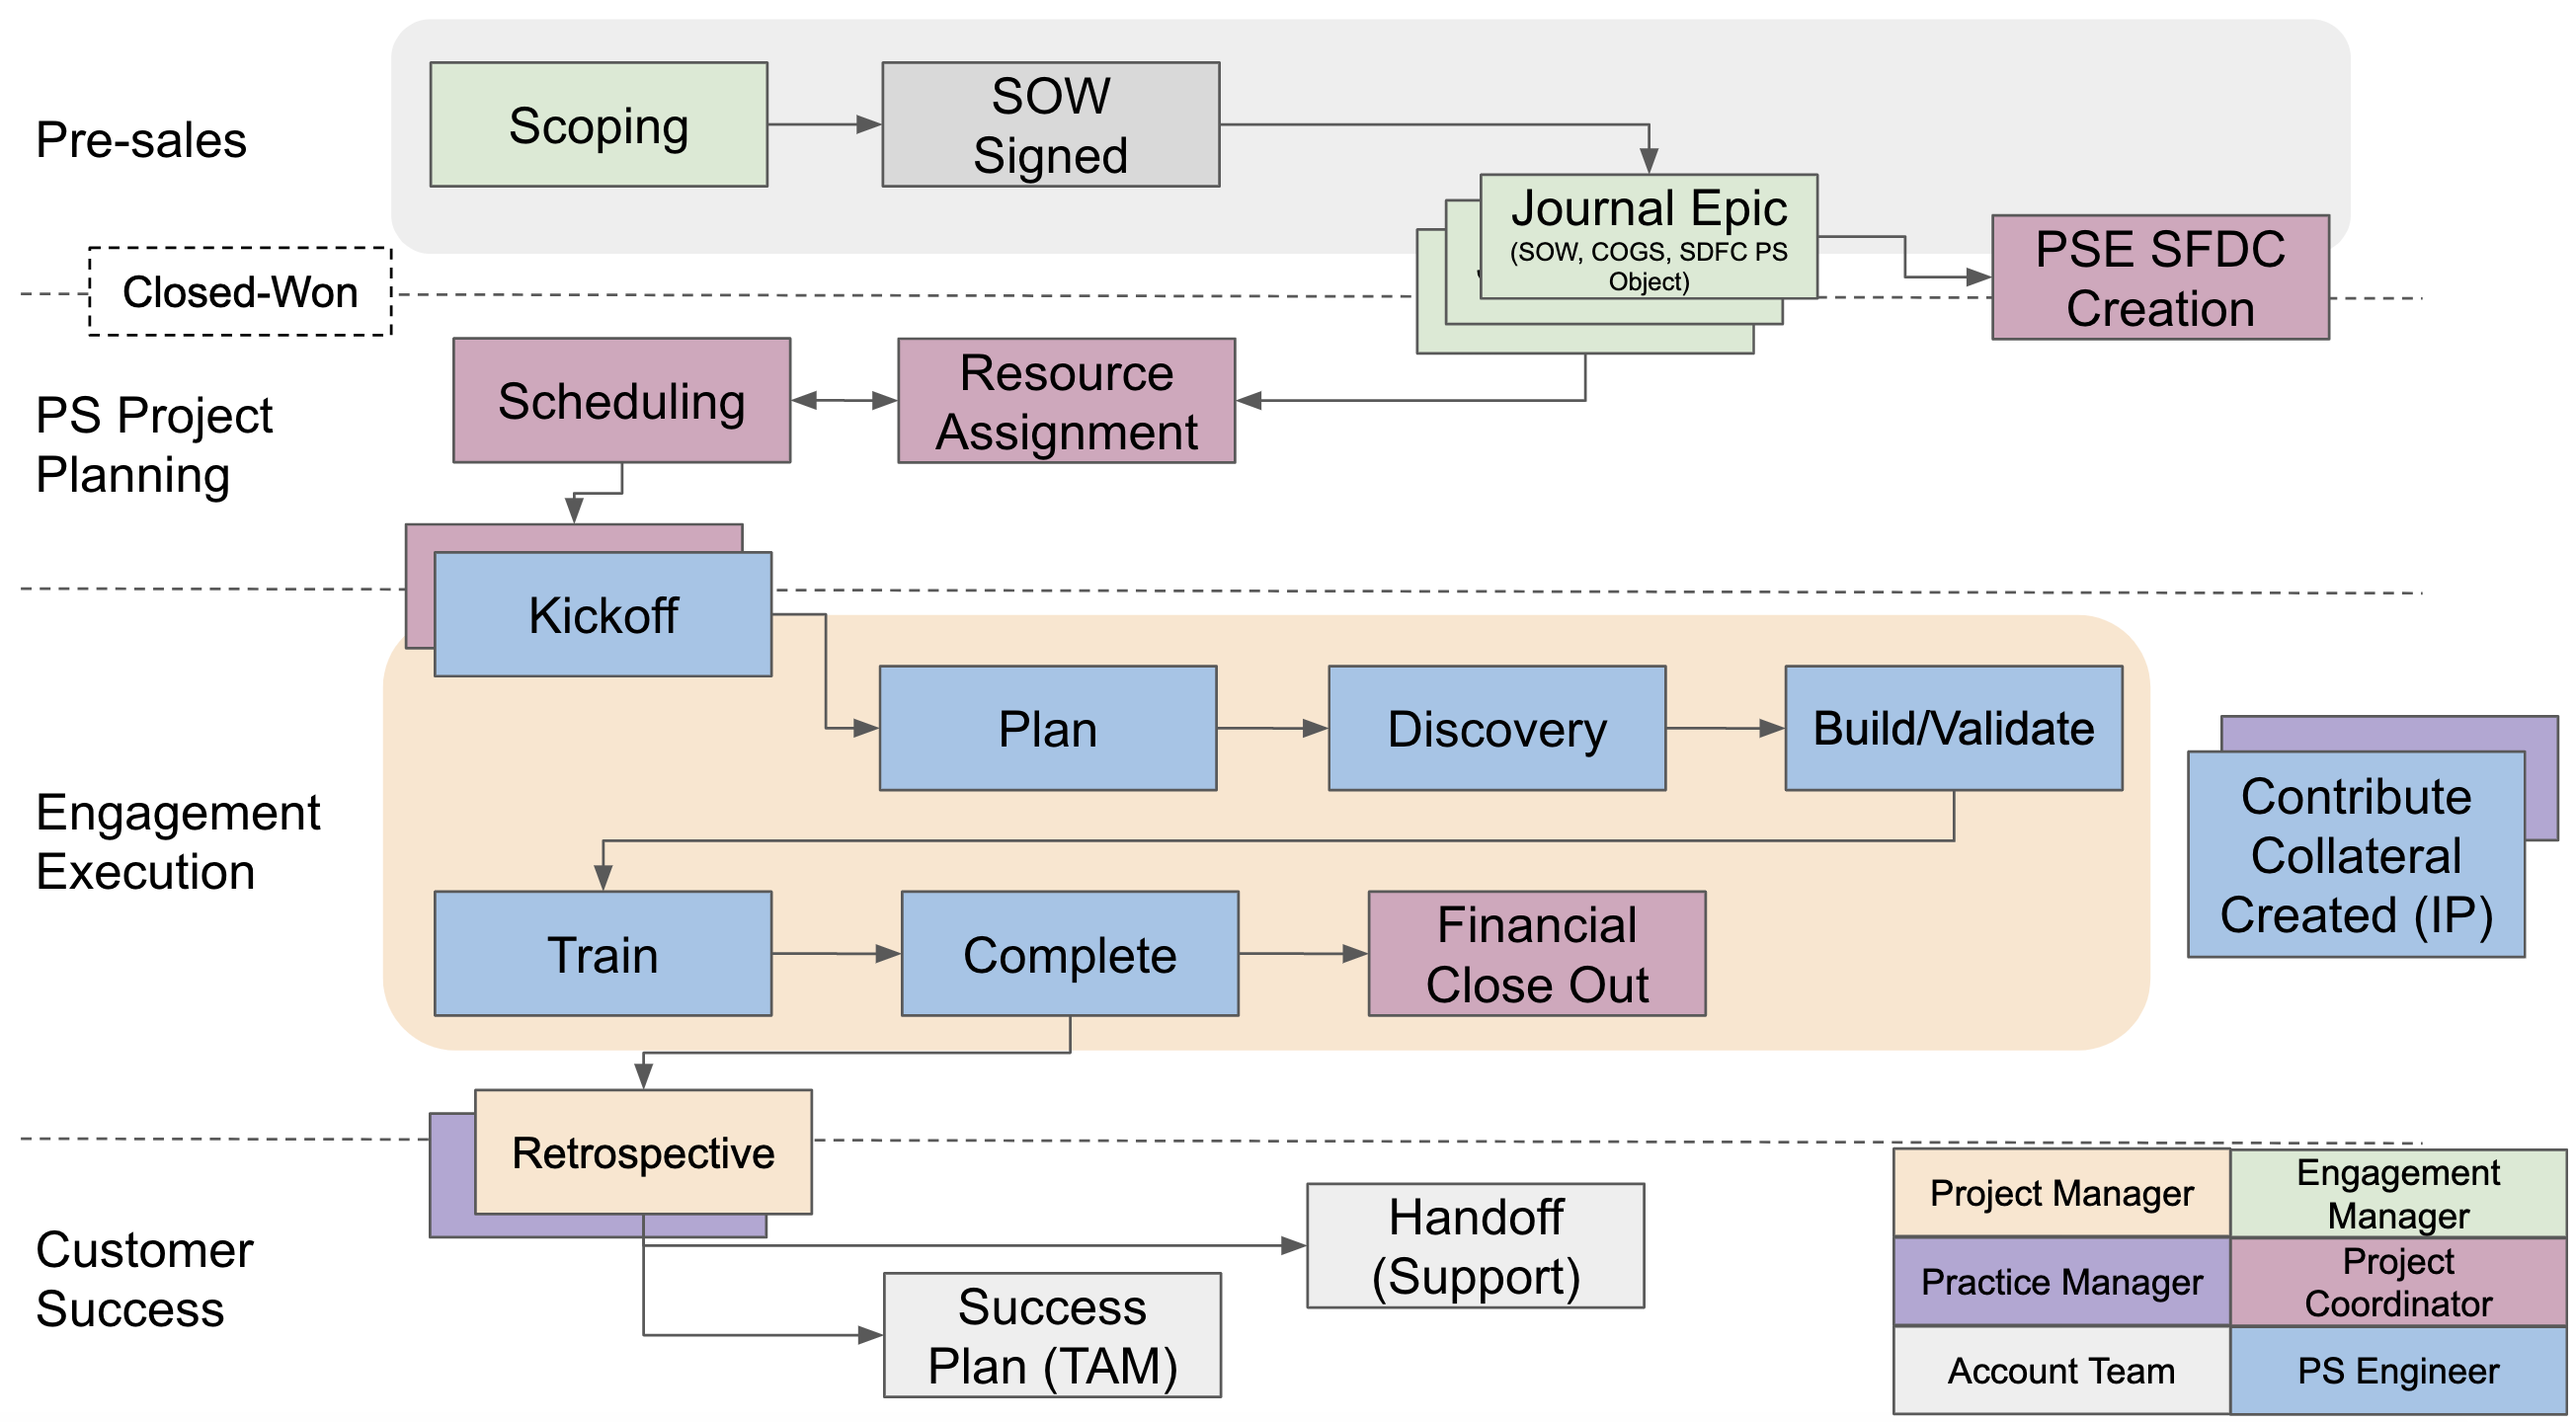
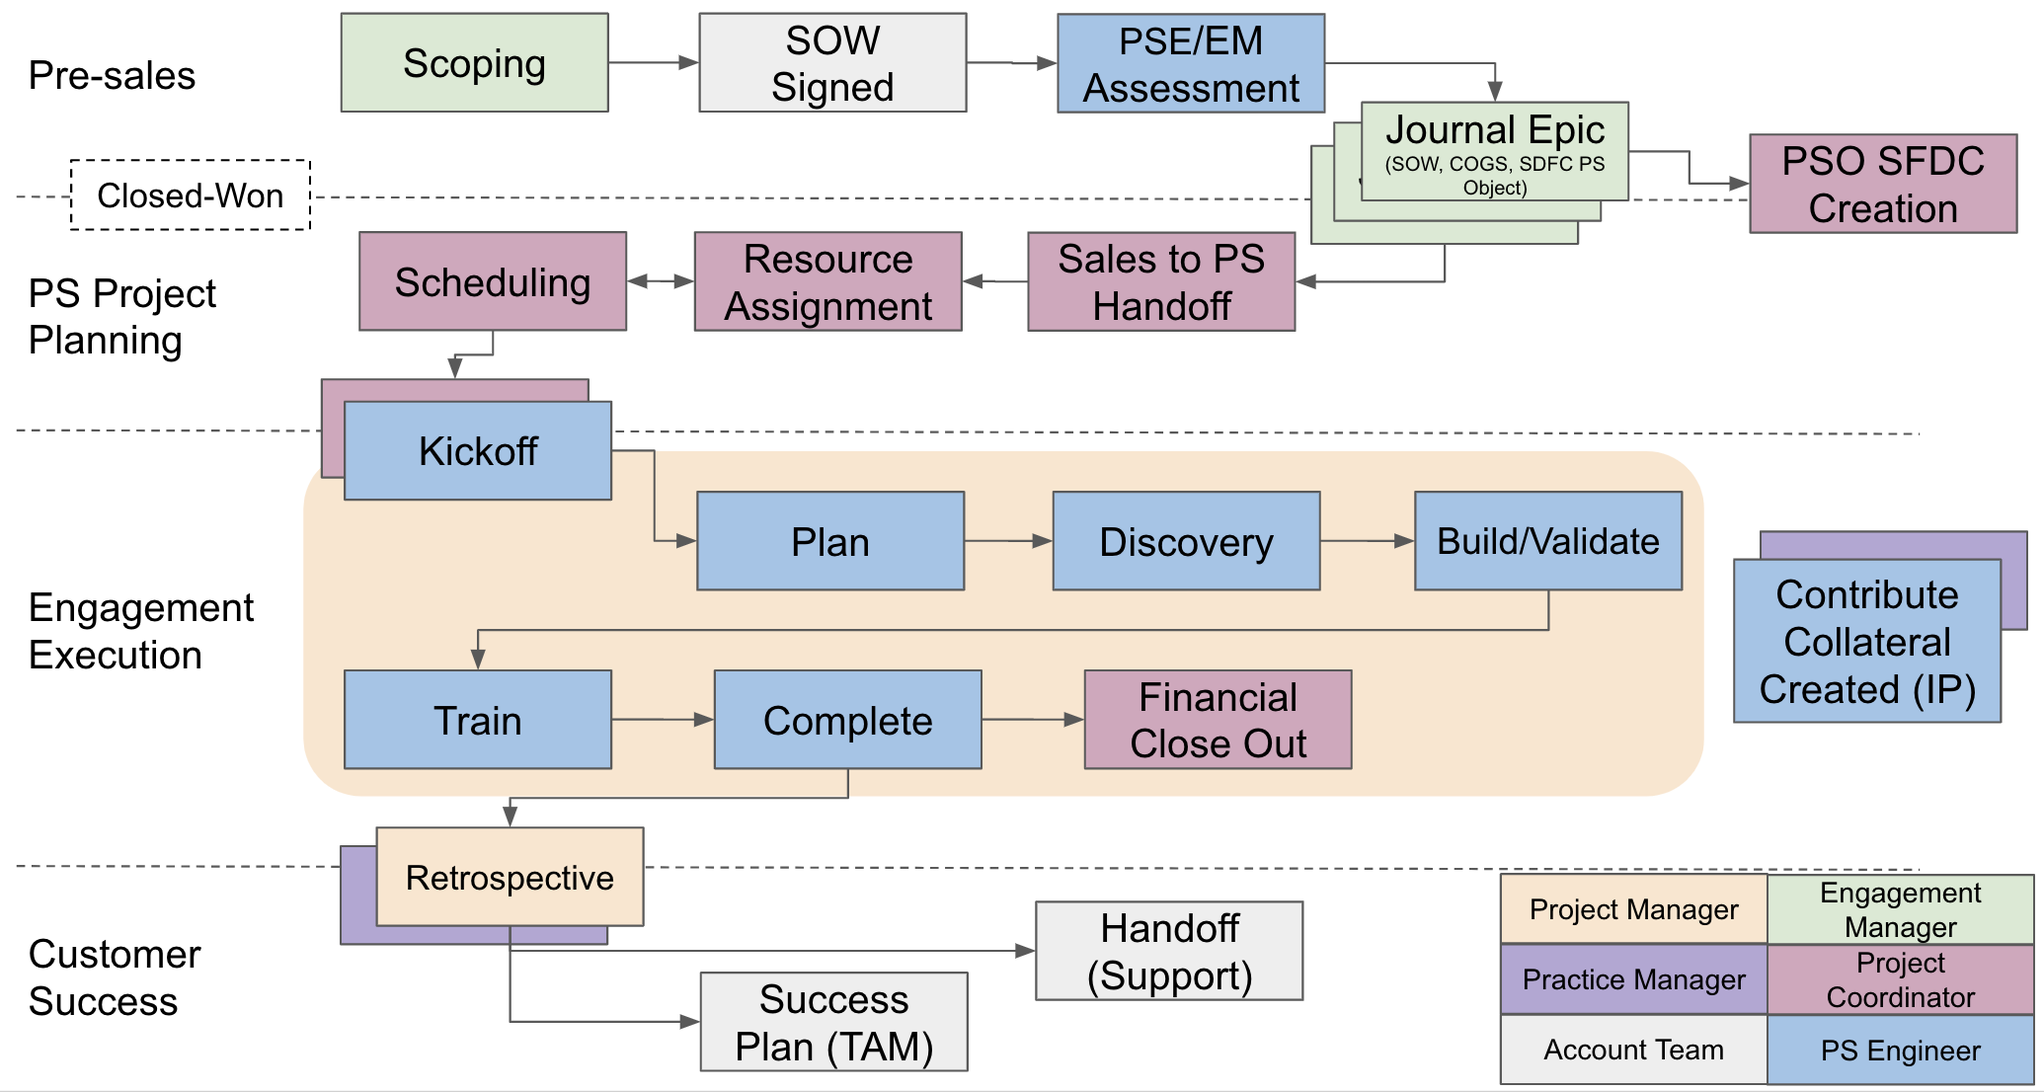
updates ps post sales sections

diff --git a/customer-success/professional-services-engineering/processes/post-sales-methodology/index.html.md b/customer-success/professional-services-engineering/processes/post-sales-methodology/index.html.md
@@ -10,7 +10,7 @@ description: "Describes the workflow governing delivery of GitLab professional s
 - TOC
 {:toc .hidden-md .hidden-lg}
 
-### Overview
+## Overview
 
 The purpose of this page is to describe the workflow governing delivery of professional service projects. We will start by outlining the general workflow that is common across all service delivery categories. Then we will describe the differences for engagements that do not fit the general workflow shown below.
 
@@ -21,9 +21,25 @@ The purpose of this page is to describe the workflow governing delivery of profe
 <!---Update this below
 GitLab professional services employs three different workflows that control projects for the following categories:  standard professional services, education, and dedicated engineers.  Each of these categories have unique attributes that warrant a different approach.--->
 
-### Planning and Delivering Standard Services
+## 1. Pre-sales
+_Note: for presales scoping and SOW signature, see the [pre-sales methodology page](/handbook/customer-success/professional-services-engineering/processes/pre-sales-methodology)_
 
-#### Scheduling
+### PS/EM Assessment
+**TODO: Add content about what happens in this step**
+
+## 2. PS Project Planning
+
+### Sales to PS Handoff
+**TODO: Add content about what happens in this step**
+
+### Resource Assignment
+Resource assignment happens only after the SOW is received with Customer signature. The Sr. PS Operations team identifies delivery resources based on the needs of the engagement. 
+
+**TODO: Add or link to content about what happens in this step. E.g. List link to the skills matrix,  Show example of skills requirements breakdown that come from a scoping issue, Link to the appropriate PS Operations handbook page to show the process in mavenlink**. 
+
+
+
+### Scheduling
 
 The Professional Services (PS) team scheduling is processed through the Sr. PS Project Coordinator (PC).  Our PSA sytem calendar is our single source of truth for scheduing our customer and internal projects.  
 
@@ -38,9 +54,9 @@ Submit a Resource Request through Mavenlink with the following details:
 
 The PC will review the master planning for availability and procecss the resource request.  If there is a schedule conflict the PC will provide another set of project dates.
 
-Scheduling updates and changes follow this same process with a resource request  in Mavenlink.
+Scheduling updates and changes follow this same process with a resource request in Mavenlink.
 
-If a customer project has not booked, but planning/ scheduling discussions need to take place, reach out to the PC to review.
+If a customer project has not booked, but planning/scheduling discussions need to take place, reach out to the PC to review.
 
 #### How to schedule internal time
 
@@ -51,18 +67,27 @@ There are 2 project that track internal time, Creditable and Non Creditable.  If
 * Task assignment
 * Soft or Hard allocation
 
-#### Kicking off an engagement
+## 3. Engagement Execution
+
+#### Kickoff
 
 See the details in the Project workflow section of the [PS Project Management](/handbook/customer-success/professional-services-engineering/project-mgmt/) page.
 
-### Holding discovery sessions
+### Plan
+**TODO: Add content about what happens in this step**
+
+### Discovery
 During discovery or fact finding sessions with the customer, PSEs will often have a predefined list of questions that need to be answered to to ensure we're designing and building the appropriate solution given customer constraints and requirements. It is good practice to send these question to the customer prior to the discovery call so they can be prepared for the discussion.
 
 During the call, take notes to ensure that things that have validated or invalidated your initial assumptions have been captured. At the end of the meeting, review the things you've learned to memorialize what will be designed and built. Reiterating back your understanding of the details of the agreement instills confidence in the customer representative that we understand their requirements and can deliver what was reviewed.
 
 After the meeting, based on meeting notes, create issues in the gitlab.com customer collaboration project outlining the work. Include Consider using a simple template with `Overview`, `Open Questions`, `Tasks`, and `Acceptance Criteria`. These can be helpful in further memorializing the scope of work with the customer and getting asynchronous feedback to open questions. Make sure the `overview` is as detailed as possible, and the `tasks` section has build-to level tasks (e.g. update congregate list() function to include data from CI sources).
 
-### Planning and Delivering Education Services
+### Build/Validate
+**TODO: Add content about what happens in this step**
+
+
+### Train
 
 PSEs or Technical Instructors who deliver GitLab Education Services instructor-led courses can use the following workflow to ensure smooth interactions with customers. In addition, PSEs and Technical Instructors should complete these [GitLab Certified Trainer](/handbook/customer-success/professional-services-engineering/gitlab-certified-trainer-process/) steps for each course they are scheduled to deliver.
 
@@ -121,12 +146,25 @@ PS uses the [GitLab Demo Cloud](http://gitlabdemo.com/) as the standard environm
 1. The Project Coordinator will download the Zoom attendee report and send a Next Steps email to the customer main point of contact using an email template located in the [email communication templates](https://docs.google.com/document/d/1rJ9q9gEzsumRxDhoWEe45u70efmKA0eWNg69WONuCYs/edit?usp=sharing).
 1. <strong>For courses that have certification assessments</strong>: When an attendee submits their certification assessment, review their work in the demo lab cloud within 7 days of the attendee's submission and manually release their results using the attendee's completed Google Form. [Here are the detailed instructions](https://gitlab.com/gitlab-com/customer-success/professional-services-group/education-services/-/wikis/GitLab-Certification-Instructions) for certifying customers.
 
-### Planning and Delivering Dedicated Engineering Services
+### Complete 
+**TODO: Add or link to content about what happens in this step**
 
-Work in progress
+### Financial Closeout 
+**TODO: Add or link to content about what happens in this step**
+
+## 4. Customer Success
+
+### Retrospective
+**TODO: Add or link to content about what happens in this step**
+
+### Success Plan (TAM)
+**TODO: Add or link to content about what happens in this step**
+
+### Handoff (Support)
+**TODO: Add or link to content about what happens in this step**
 
 
-### Employing Subcontractors
+## Employing Subcontractors
 
 If the project requirements exceed the current capacity of the available resources then the professional services team may employ a subcontractor to help deliver the project.  The following provides a checklist of items to process before and during the use of a subcontracted resource:
 
